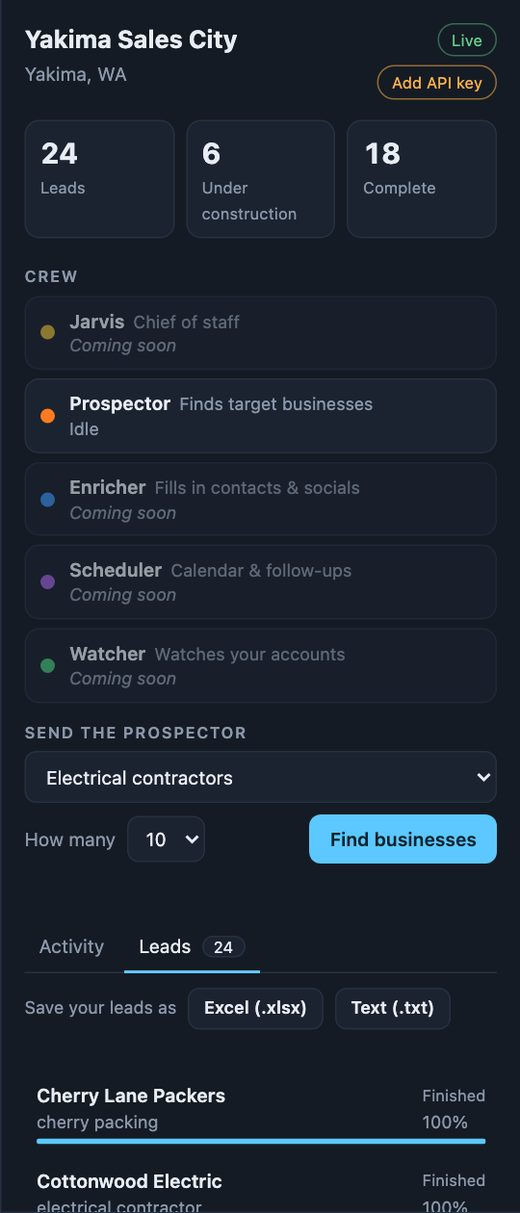
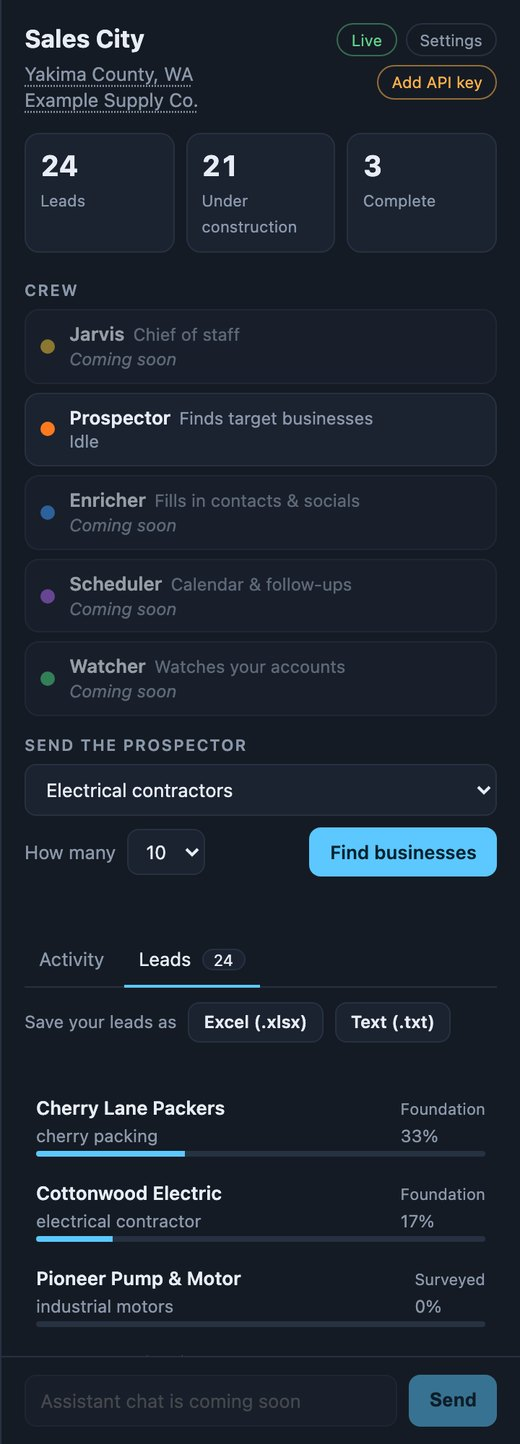
Update download page (automatic, from the private source repository)

diff --git a/index.html b/index.html
@@ -3,7 +3,7 @@
 <head>
 <meta charset="utf-8">
 <meta name="viewport" content="width=device-width, initial-scale=1">
-<title>Yakima Sales City - download for Windows</title>
+<title>Sales City - download for Windows</title>
 <meta name="description" content="Find local businesses to sell to and watch your prospect list get built, block by block. Free download for Windows.">
 <meta name="color-scheme" content="light dark">
 <link rel="icon" href="assets/icon.png">
@@ -14,7 +14,7 @@
 
 <header class="top">
   <div class="wrap bar">
-    <a class="brand" href="./"><img src="assets/icon.png" alt="" width="36" height="36"><span>Yakima Sales City</span></a>
+    <a class="brand" href="./"><img src="assets/icon.png" alt="" width="36" height="36"><span>Sales City</span></a>
     <nav aria-label="Page sections">
       <a href="#install">Install</a>
       <a href="#faq">FAQ</a>
@@ -26,9 +26,9 @@
   <section class="hero wrap">
     <div class="hero-text">
       <h1>Find local businesses to sell to, and watch your prospect list get built.</h1>
-      <p class="lead">Yakima Sales City is a Windows app that researches businesses in the Yakima Valley for you. Each one appears as a lot in a little city and rises from a foundation to a finished building as details are found. When you're ready, save the list to Excel.</p>
+      <p class="lead">Sales City is a Windows app that researches businesses in your county for you: type your ZIP code and it searches that whole county. Each one appears as a lot in a little city and rises from a foundation to a finished building as details are found. When you're ready, save the list to Excel.</p>
       <p class="cta-row">
-        <a id="dl" class="btn" href="https://github.com/MackKD/yakima-sales-download/releases/latest/download/YakimaSalesCity-Setup.exe">
+        <a id="dl" class="btn" href="https://github.com/MackKD/sales-city-download/releases/latest/download/SalesCity-Setup.exe">
           <svg aria-hidden="true" viewBox="0 0 24 24" width="22" height="22"><path fill="currentColor" d="M12 3v11.2l3.6-3.6 1.4 1.4-6 6-6-6 1.4-1.4 3.6 3.6V3h2zM5 19h14v2H5z"/></svg>
           Download for Windows
         </a>
@@ -67,7 +67,7 @@
       <figcaption>The city follows your clock: lights come on at dusk.</figcaption>
     </figure>
     <figure class="tall">
-      <img src="assets/leads.jpg" width="520" height="1213" loading="lazy" alt="The side panel showing the helpers, a menu to choose what to search for, and buttons to save leads as Excel or text.">
+      <img src="assets/leads.jpg" width="520" height="1444" loading="lazy" alt="The side panel showing your sales area county, the helpers, a menu to choose what to search for, and buttons to save leads as Excel or text.">
       <figcaption>Choose what to look for, then save the results.</figcaption>
     </figure>
   </section>
@@ -85,11 +85,11 @@
       </li>
       <li>
         <h3>Click Next</h3>
-        <p>Follow the installer. You don't need administrator rights, and it adds Yakima Sales City to your Start menu. The suggested install folder is fine for most people; to put it somewhere else, press <strong>Browse</strong> and choose a folder you can save files in.</p>
+        <p>Follow the installer. You don't need administrator rights, and it adds Sales City to your Start menu. The suggested install folder is fine for most people; to put it somewhere else, press <strong>Browse</strong> and choose a folder you can save files in.</p>
       </li>
       <li>
-        <h3>Add your Anthropic key</h3>
-        <p>The first time you open the app, it asks for your Anthropic API key. Create one at <a href="https://console.anthropic.com/settings/keys" rel="noopener noreferrer" target="_blank">console.anthropic.com</a>, copy it, and paste it in. That's it.</p>
+        <h3>Add your Anthropic key and ZIP code</h3>
+        <p>The first time you open the app, it asks for your Anthropic API key. Create one at <a href="https://console.anthropic.com/settings/keys" rel="noopener noreferrer" target="_blank">console.anthropic.com</a>, copy it, and paste it in. Then type a ZIP code in your sales area and the app finds the county to search. You can change it any time.</p>
       </li>
     </ol>
   </section>
@@ -108,6 +108,7 @@
     <ul class="ticks">
       <li>Your leads are saved on your own computer. Nothing is sent to the people who made this app.</li>
       <li>Your API key is stored in Windows Credential Manager. It is only ever sent to Anthropic, and the app never shows it again.</li>
+      <li>The ZIP code lookup is built into the app, so your ZIP code is never sent anywhere. Only the county name is included in the search request to Anthropic.</li>
       <li>The app finds public business details on the web. It never emails or contacts anyone for you.</li>
       <li>When it opens, the app asks GitHub whether a newer version exists. Updates are digitally signed, and the app installs only genuine ones.</li>
     </ul>
@@ -122,7 +123,7 @@
     <details id="verify">
       <summary>How can I check my download is genuine?</summary>
       <p>Every version has a fingerprint (called a SHA-256 checksum). Open PowerShell in your Downloads folder and run:</p>
-      <p><code>Get-FileHash .\YakimaSalesCity-Setup.exe -Algorithm SHA256</code></p>
+      <p><code>Get-FileHash .\SalesCity-Setup.exe -Algorithm SHA256</code></p>
       <p>The result should match this: <code id="sha">(shown here once a version is published)</code></p>
     </details>
     <details>
@@ -134,7 +135,7 @@
     </details>
     <details>
       <summary>How do I uninstall it?</summary>
-      <p>Open <strong>Windows Settings, then Apps</strong>, choose <strong>Yakima Sales City</strong> and click <strong>Uninstall</strong>. You'll be asked whether to keep or delete your saved leads and settings.</p>
+      <p>Open <strong>Windows Settings, then Apps</strong>, choose <strong>Sales City</strong> and click <strong>Uninstall</strong>. You'll be asked whether to keep or delete your saved leads and settings.</p>
     </details>
     <details>
       <summary>It says web search is turned off.</summary>
@@ -142,7 +143,7 @@
     </details>
     <details>
       <summary>Where are my leads stored?</summary>
-      <p>In a folder on your PC at <code>%LOCALAPPDATA%\YakimaSalesCity</code>. Use the <strong>Leads</strong> tab to save a copy as Excel or text.</p>
+      <p>In a folder on your PC at <code>%LOCALAPPDATA%\SalesCity</code>. Use the <strong>Leads</strong> tab to save a copy as Excel or text.</p>
     </details>
   </section>
 </main>
@@ -150,7 +151,7 @@
 <footer class="foot">
   <div class="wrap">
     <p id="contact" hidden>Need help? <a id="contact-link" href="#">Email us</a>.</p>
-    <p class="small">Yakima Sales City is an independent app. It is not made by, or affiliated with, Anthropic. "Claude" and "Anthropic" are trademarks of Anthropic. Business details are gathered automatically from public web pages, so please verify them before you contact anyone.</p>
+    <p class="small">Sales City is an independent app. It is not made by, or affiliated with, Anthropic. "Claude" and "Anthropic" are trademarks of Anthropic. Business details are gathered automatically from public web pages, so please verify them before you contact anyone.</p>
   </div>
 </footer>
 

diff --git a/app.js b/app.js
@@ -2,7 +2,7 @@
 // The page works without this: the Download button always points at the newest installer.
 (function () {
   'use strict';
-  const DEFAULTS = { repo: 'MackKD/yakima-sales-download', installer: 'YakimaSalesCity-Setup.exe', contact: '' };
+  const DEFAULTS = { repo: 'MackKD/sales-city-download', installer: 'SalesCity-Setup.exe', contact: '' };
   const $ = (id) => document.getElementById(id);
 
   function formatSize(bytes) {

diff --git a/README.md b/README.md
@@ -1,7 +1,7 @@
-# Yakima Sales City - downloads
+# Sales City - downloads
 
-**[Download the latest Windows installer](https://github.com/MackKD/yakima-sales-download/releases/latest/download/YakimaSalesCity-Setup.exe)**
+**[Download the latest Windows installer](https://github.com/MackKD/sales-city-download/releases/latest/download/SalesCity-Setup.exe)**
 
-Step-by-step install help is on the download page: https://mackkd.github.io/yakima-sales-download/
+Step-by-step install help is on the download page: https://mackkd.github.io/sales-city-download/
 
 This repository only hosts the finished installer and the download page.
